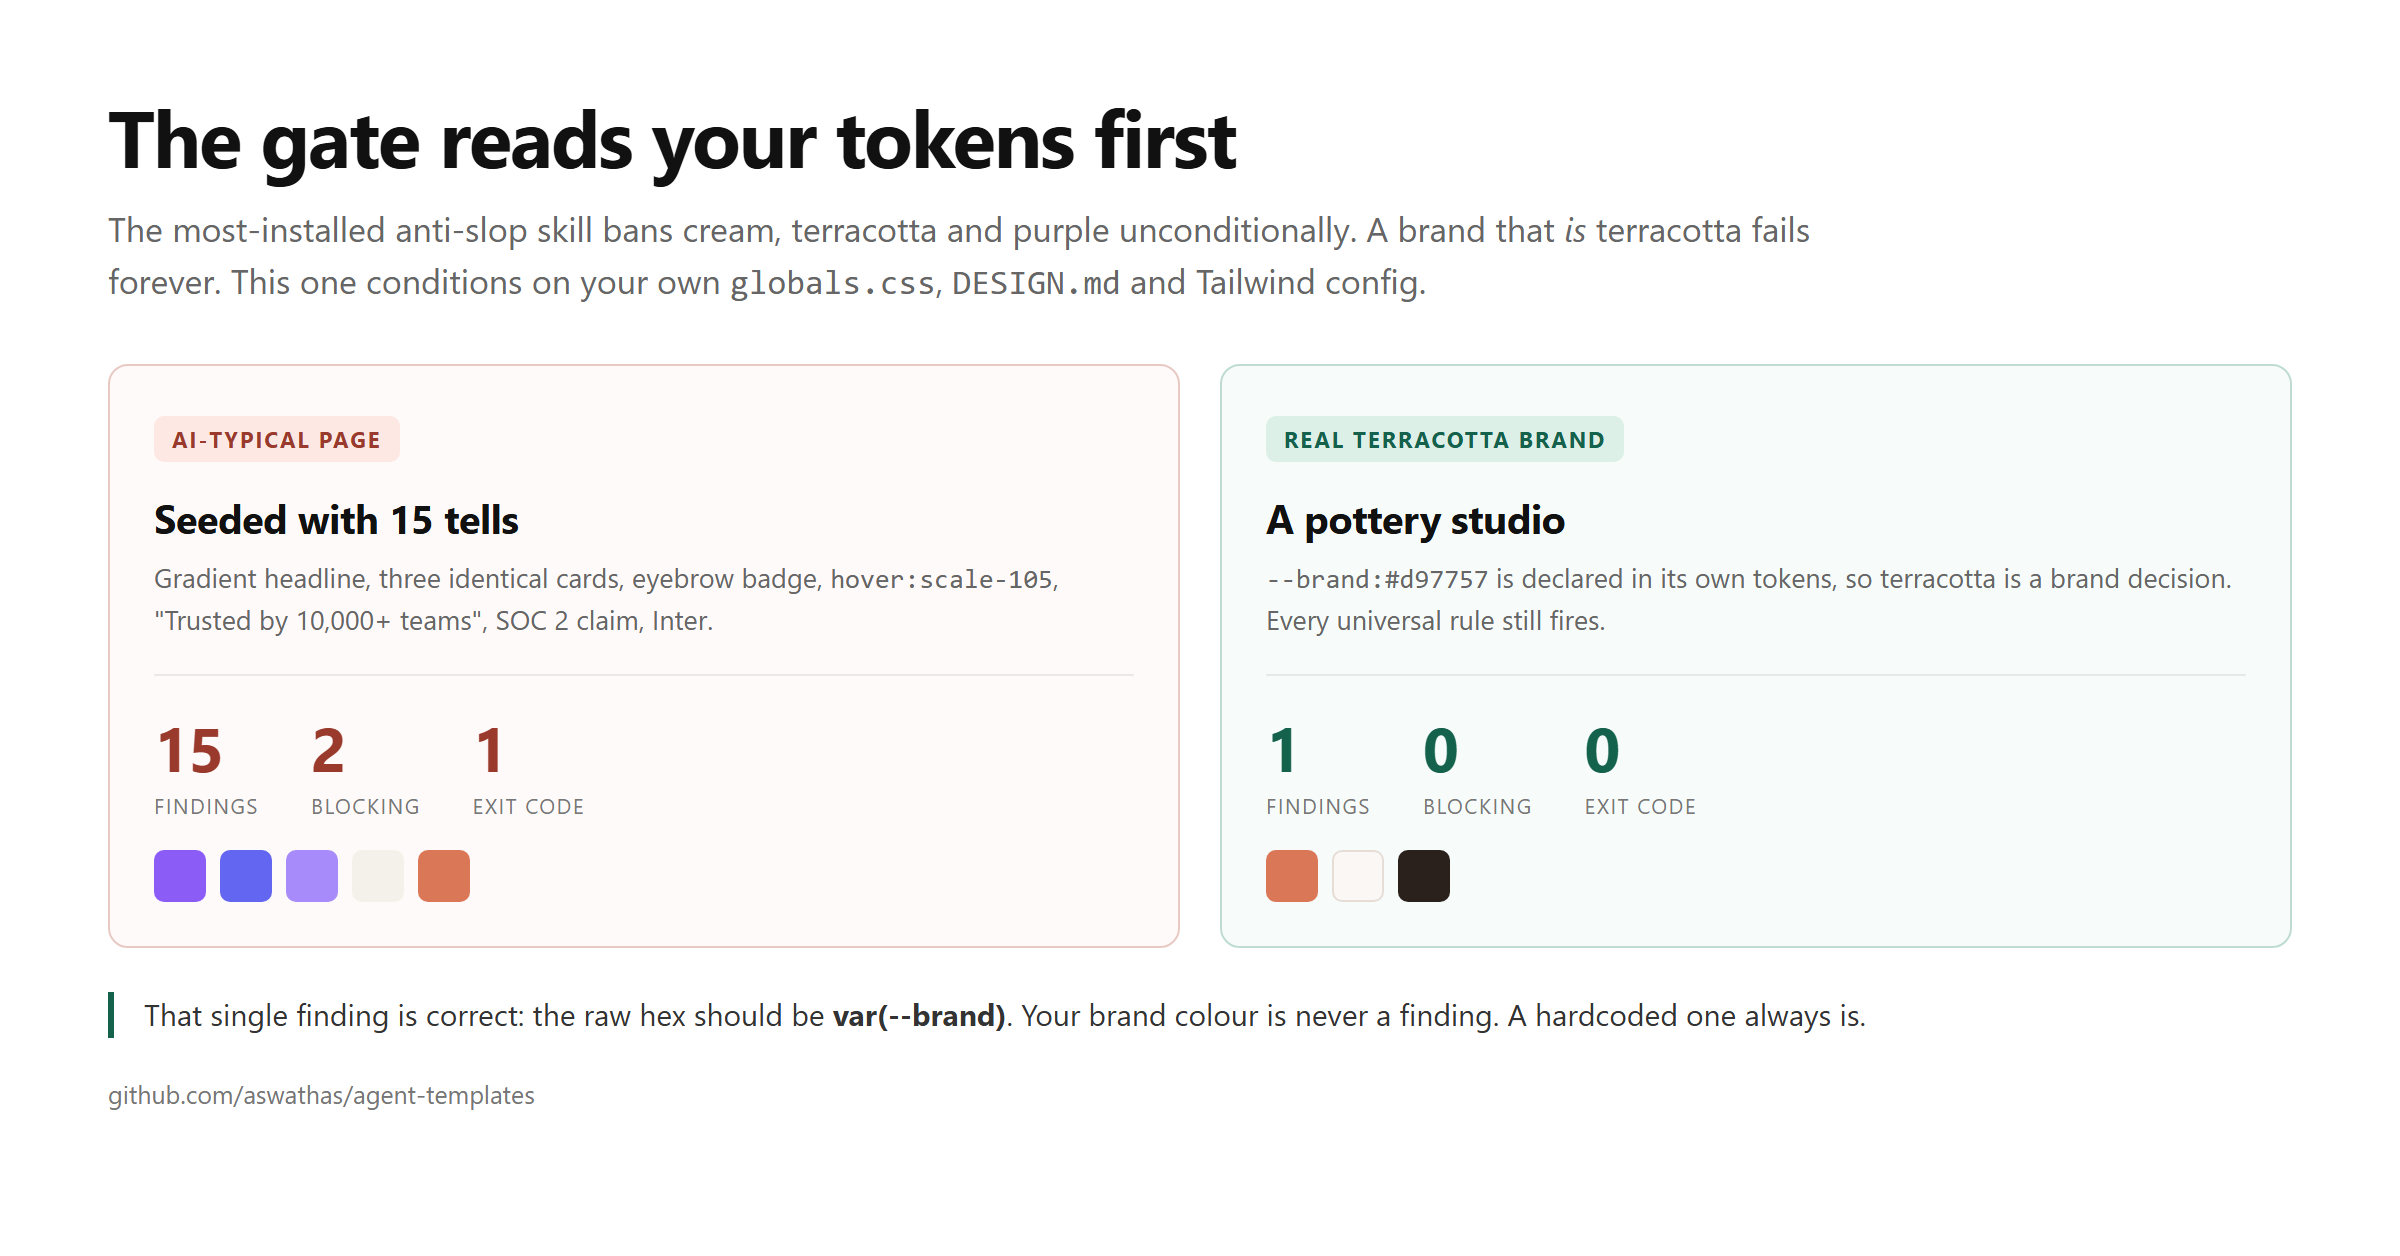
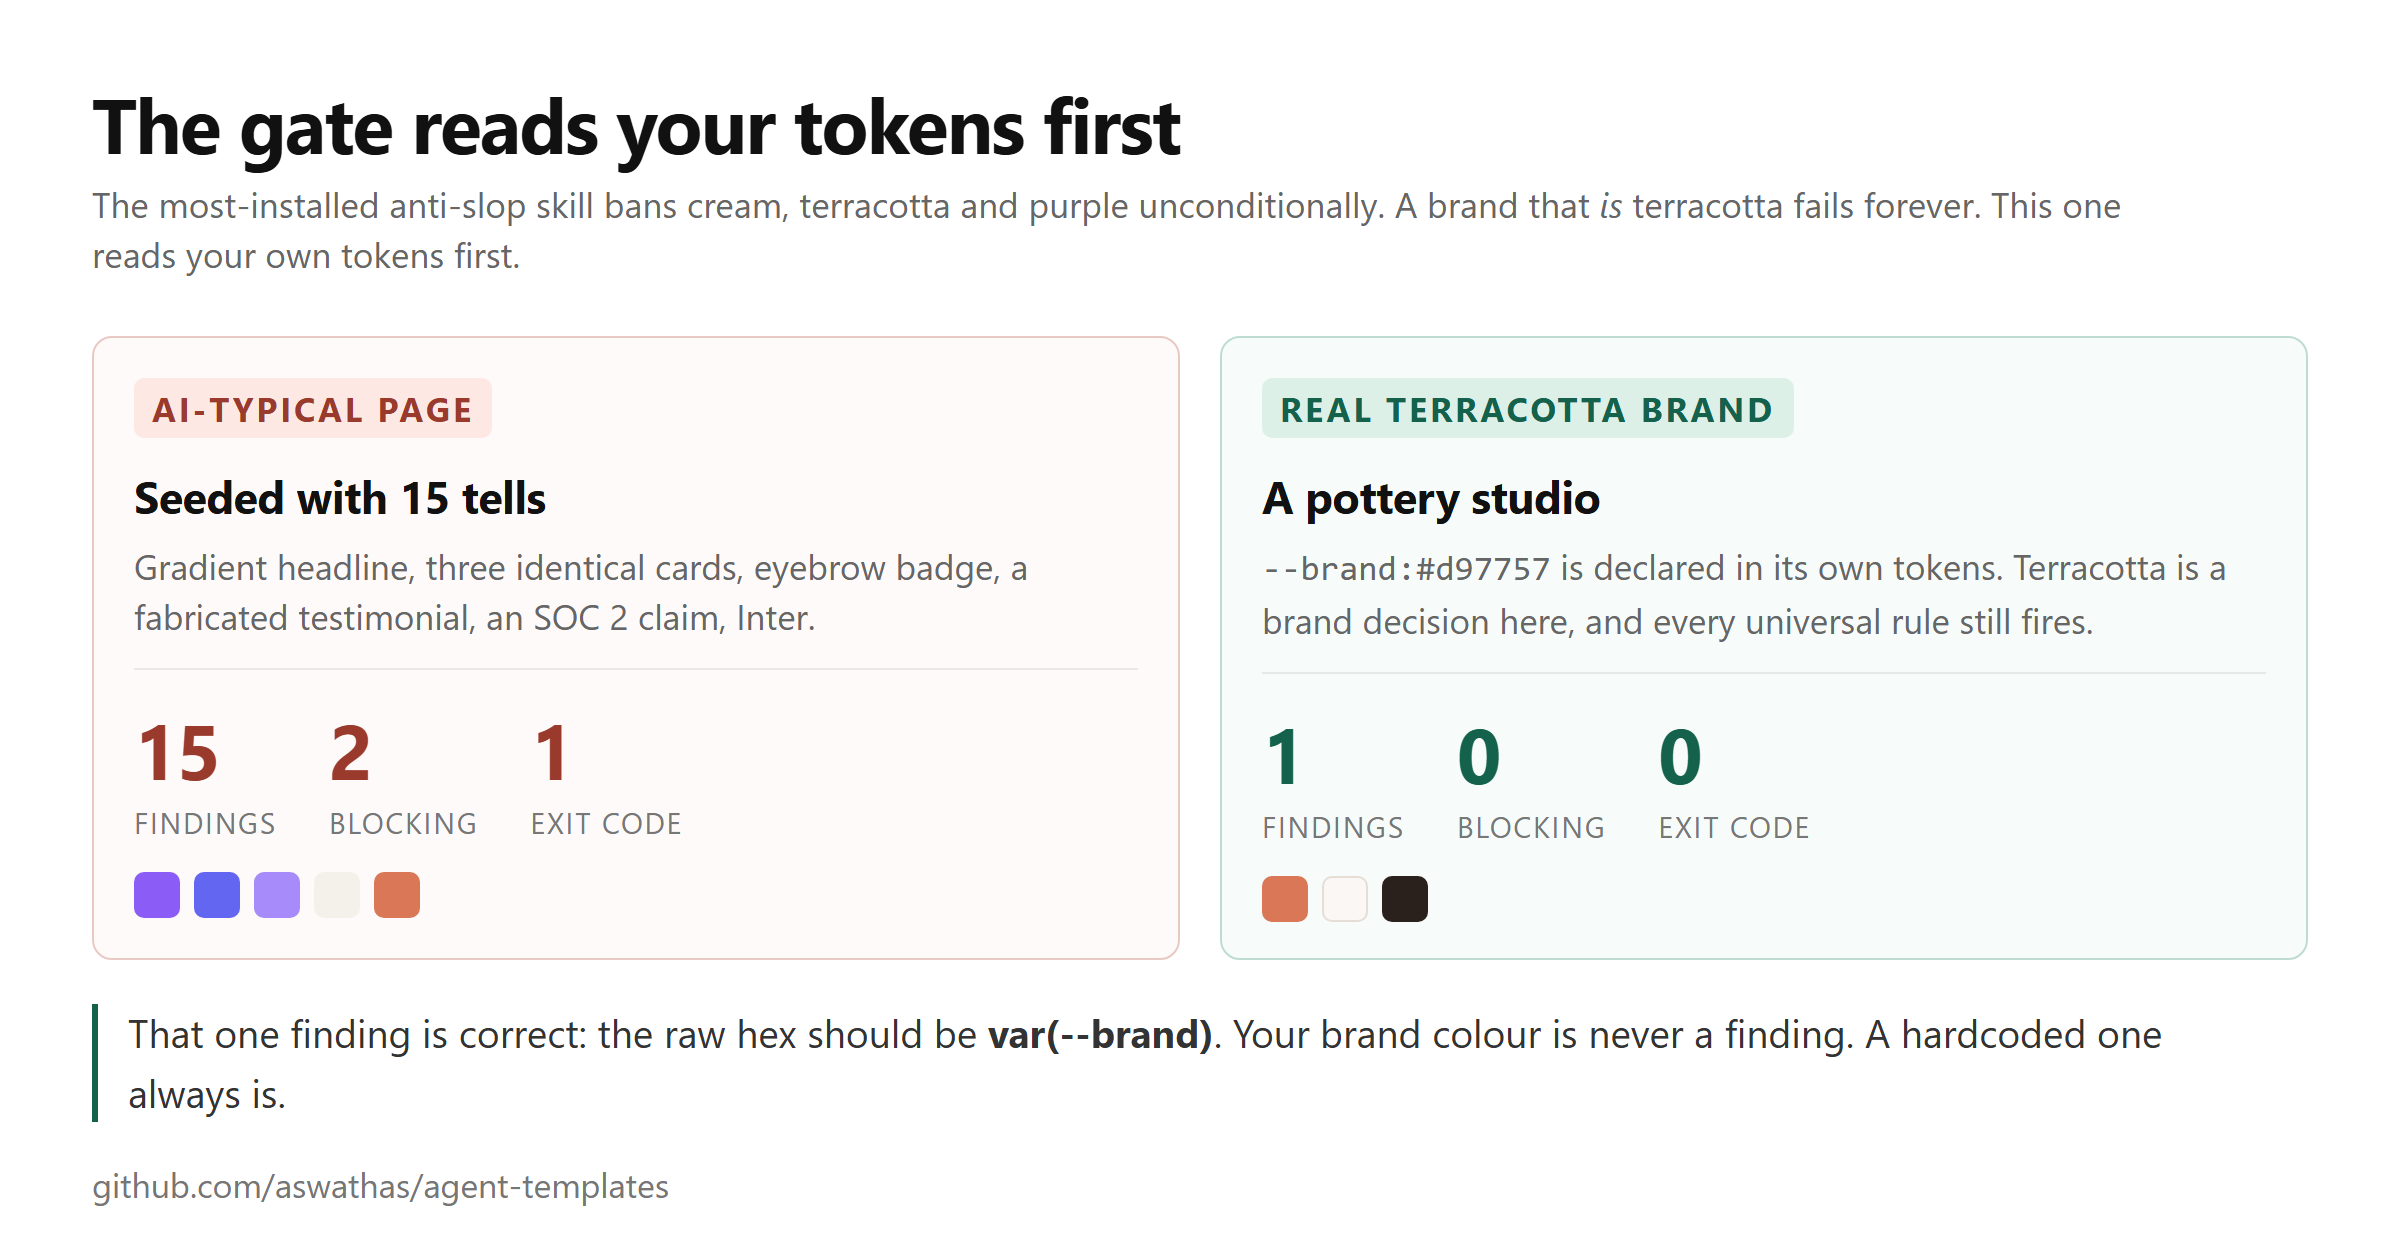
Fix unreadable post images at feed size, assert no overflow
The images were authored at 1200px CSS and rendered at 2x to 2400px PNGs.
LinkedIn shows a feed image near 600px, so 16px body text rendered at 4px.
Every image was unreadable as posted.

- Type floor raised to 11px, then the whole ramp scaled so the viewed size
  clears the bar rather than the CSS value
- Copy trimmed to fit rather than shrinking type back under the floor
- Added an overflow assertion to render.mjs that measures every element and
  exits 1. A screenshot of clipped content still renders, so measuring is the
  only way to catch it. All three images overflowed during authoring.

diff --git a/images/src/02-architecture.html b/images/src/02-architecture.html
@@ -3,31 +3,32 @@
 <style>
 *{margin:0;padding:0;box-sizing:border-box}
 body{width:1200px;height:628px;background:#fbfbfa;font-family:'Segoe UI',system-ui,sans-serif;color:#111}
-.pad{padding:40px 50px 0}
-h1{font-size:32px;font-weight:650;letter-spacing:-.022em}
-.lede{font-size:15px;color:#5c5c58;margin-top:8px;max-width:940px;line-height:1.5}
-.flow{display:flex;align-items:stretch;gap:0;margin-top:26px}
+.pad{padding:28px 40px 0}
+h1{font-size:36px;font-weight:650;letter-spacing:-.022em}
+.lede{font-size:18px;color:#5c5c58;margin-top:6px;max-width:1020px;line-height:1.42}
+.flow{display:flex;align-items:stretch;gap:0;margin-top:14px}
 .step{flex:1}
 .chip{background:#fff;border:1px solid #dddcd8;border-radius:9px;padding:15px 16px;height:100%}
-.chip .n{font-size:10px;font-weight:700;letter-spacing:.1em;text-transform:uppercase;color:#6e6e68}
-.chip .h{font-size:16.5px;font-weight:650;margin-top:7px;letter-spacing:-.012em}
-.chip .d{font-size:12.5px;color:#4f4f4a;margin-top:6px;line-height:1.42}
-.arrow{display:flex;align-items:center;padding:0 9px;color:#b4b4ae;font-size:19px}
-.split{margin-top:22px;background:#fff;border:1px solid #dddcd8;border-radius:11px;padding:17px 18px}
-.split .lab{font-size:10.5px;font-weight:700;letter-spacing:.09em;text-transform:uppercase;color:#6e6e68;margin-bottom:12px}
-.routes{display:grid;grid-template-columns:repeat(4,1fr);gap:9px}
-.route{border:1px solid #e6e5e1;border-radius:7px;padding:11px 12px;background:#fdfdfc}
-.route .rt{font-size:13.5px;font-weight:640;letter-spacing:-.01em}
-.route .rd{font-size:11.5px;color:#55554f;margin-top:4px;line-height:1.38}
+.chip .n{font-size:14.3px;font-weight:700;letter-spacing:.1em;text-transform:uppercase;color:#6e6e68}
+.chip .h{font-size:18.5px;font-weight:650;margin-top:7px;letter-spacing:-.012em}
+.chip .d{font-size:16.9px;color:#4f4f4a;margin-top:6px;line-height:1.42}
+.arrow{display:flex;align-items:center;padding:0 9px;color:#b4b4ae;font-size:24.7px}
+.split{margin-top:13px;background:#fff;border:1px solid #dddcd8;border-radius:11px;padding:17px 18px}
+.split .lab{font-size:14.3px;font-weight:700;letter-spacing:.09em;text-transform:uppercase;color:#6e6e68;margin-bottom:12px}
+.routes{display:grid;grid-template-columns:repeat(4,1fr);gap:8px}
+.also{font-size:16px;color:#55554f;margin-top:11px;padding-top:10px;border-top:1px solid #e6e5e1}
+.route{border:1px solid #e6e5e1;border-radius:6px;padding:7px 9px;background:#fdfdfc}
+.route .rt{font-size:15.1px;font-weight:640;letter-spacing:-.01em}
+.route .rd{font-size:16.9px;color:#55554f;margin-top:4px;line-height:1.38}
 .route.ext{border-style:dashed;background:#fafaf8}
-.ext-tag{font-size:9.5px;color:#6e6e68;text-transform:uppercase;letter-spacing:.07em;font-weight:600}
-.gate{margin-top:17px;display:grid;grid-template-columns:1fr 1fr;gap:11px}
+.ext-tag{font-size:14.3px;color:#6e6e68;text-transform:uppercase;letter-spacing:.07em;font-weight:600}
+.gate{margin-top:13px;display:grid;grid-template-columns:1fr 1fr;gap:11px}
 .g{border-radius:9px;padding:14px 16px}
 .g.a{background:#f0f4f2;border:1px solid #cfe0d9}
 .g.b{background:#fdf3f1;border:1px solid #edd4ce}
-.g .gh{font-size:14.5px;font-weight:650}
-.g .gd{font-size:12px;margin-top:5px;line-height:1.42;color:#55554f}
-.foot{margin-top:14px;font-size:11.5px;color:#767676}
+.g .gh{font-size:18.9px;font-weight:650}
+.g .gd{font-size:16.9px;margin-top:5px;line-height:1.42;color:#55554f}
+.foot{margin-top:11px;font-size:15px;color:#767676;padding-left:2px}
 </style></head>
 <body><div class="pad">
 <h1>Every surface routes to its own method</h1>
@@ -54,20 +55,18 @@ h1{font-size:32px;font-weight:650;letter-spacing:-.022em}
 <div class="split">
   <div class="lab">Routes</div>
   <div class="routes">
-    <div class="route"><div class="rt">Marketing</div><div class="rd">taste-skill. Art direction, 20 researched directions.</div></div>
-    <div class="route"><div class="rt">Product UI</div><div class="rd">Density, nine states, tables, forms, focus.</div></div>
-    <div class="route"><div class="rt">Mobile</div><div class="rd">Touch targets, safe areas, iOS ≠ Android.</div></div>
-    <div class="route"><div class="rt">Canvas</div><div class="rd">Pointer capture, keyboard per gesture, frame budget.</div></div>
-    <div class="route"><div class="rt">i18n / RTL</div><div class="rd">Logical properties, Intl, text expansion.</div></div>
-    <div class="route ext"><div class="rt">Charts</div><div class="rd">dataviz skill. Built in, not bundled.</div></div>
-    <div class="route ext"><div class="rt">Figma</div><div class="rd">Official MCP. Design as source of truth.</div></div>
-    <div class="route ext"><div class="rt">Design system</div><div class="rd">Style Dictionary or Terrazzo.</div></div>
+    <div class="route"><div class="rt">Marketing</div><div class="rd">taste-skill. Art direction.</div></div>
+    <div class="route"><div class="rt">Product UI</div><div class="rd">Density, nine states, tables.</div></div>
+    <div class="route"><div class="rt">Mobile</div><div class="rd">Touch targets, safe areas.</div></div>
+    <div class="route"><div class="rt">Canvas</div><div class="rd">Keyboard per gesture.</div></div>
   </div>
+  <div class="also">Plus i18n/RTL, charts (dataviz), Figma MCP, and a Style Dictionary pipeline.</div>
+</div>
 </div>
 
 <div class="gate">
-  <div class="g a"><div class="gh">Closed here</div><div class="gd">Brand-conditioned gate. Reads your tokens first, so your own colours are never findings.</div></div>
-  <div class="g b"><div class="gh">Needs a browser</div><div class="gd">Rendered geometry, contrast in situ, focus order. Static regex cannot see these.</div></div>
+  <div class="g a"><div class="gh">Closed here</div><div class="gd">Brand-conditioned gate — your own colours are never findings.</div></div>
+  <div class="g b"><div class="gh">Needs a browser</div><div class="gd">Rendered geometry, contrast in situ, focus order.</div></div>
 </div>
 
 <div class="foot">github.com/aswathas/agent-templates</div>

diff --git a/images/src/01-gate.html b/images/src/01-gate.html
@@ -3,38 +3,38 @@
 <style>
 *{margin:0;padding:0;box-sizing:border-box}
 body{width:1200px;height:628px;background:#fff;font-family:'Segoe UI',system-ui,sans-serif;color:#111}
-.pad{padding:46px 54px 0}
-h1{font-size:40px;font-weight:650;letter-spacing:-.025em;line-height:1.1}
-.sub{font-size:17px;color:#666;margin-top:12px;line-height:1.5;max-width:900px}
+.pad{padding:40px 46px 0}
+h1{font-size:38.6px;font-weight:650;letter-spacing:-.025em;line-height:1.1}
+.sub{font-size:17.6px;color:#666;margin-top:8px;line-height:1.4;max-width:1050px}
 .cols{display:grid;grid-template-columns:1fr 1fr;gap:20px;margin-top:28px}
-.card{border:1px solid #e3e3e1;border-radius:10px;padding:24px 22px 22px}
+.card{border:1px solid #e3e3e1;border-radius:10px;padding:20px 20px 18px}
 .card.bad{border-color:#e8c9c4;background:#fefaf9}
 .card.good{border-color:#bfdcd2;background:#f7fcfa}
-.tag{display:inline-flex;align-items:center;gap:7px;font-size:11px;font-weight:700;letter-spacing:.09em;text-transform:uppercase;padding:4px 9px;border-radius:5px}
+.tag{display:inline-flex;align-items:center;gap:7px;font-size:16.9px;font-weight:700;letter-spacing:.09em;text-transform:uppercase;padding:4px 9px;border-radius:5px}
 .bad .tag{background:#fde8e4;color:#9a3a2c}
 .good .tag{background:#dcf0e8;color:#14614c}
-.ttl{font-size:20px;font-weight:650;margin-top:14px;letter-spacing:-.015em}
-.sub2{font-size:13.5px;color:#666;margin-top:7px;line-height:1.45}
-.stats{display:flex;gap:26px;margin-top:18px;padding-top:15px;border-top:1px solid rgba(0,0,0,.07)}
-.st .n{font-size:31px;font-weight:700;letter-spacing:-.02em;font-variant-numeric:tabular-nums}
+.ttl{font-size:22.6px;font-weight:650;margin-top:14px;letter-spacing:-.015em}
+.sub2{font-size:17.5px;color:#666;margin-top:7px;line-height:1.45}
+.stats{display:flex;gap:26px;margin-top:14px;padding-top:13px;border-top:1px solid rgba(0,0,0,.07)}
+.st .n{font-size:38.6px;font-weight:700;letter-spacing:-.02em;font-variant-numeric:tabular-nums}
 .bad .st .n{color:#9a3a2c}
 .good .st .n{color:#14614c}
-.st .l{font-size:10.5px;color:#777;text-transform:uppercase;letter-spacing:.07em;margin-top:2px}
+.st .l{font-size:14.3px;color:#777;text-transform:uppercase;letter-spacing:.07em;margin-top:2px}
 .sw{display:flex;gap:7px;margin-top:15px}
-.sw i{width:26px;height:26px;border-radius:5px;display:block}
-.note{margin-top:22px;font-size:15px;color:#333;border-left:3px solid #14614c;padding-left:15px;line-height:1.5;max-width:1050px}
+.sw i{width:23px;height:23px;border-radius:5px;display:block}
+.note{margin-top:22px;font-size:19.5px;color:#333;border-left:3px solid #14614c;padding-left:15px;line-height:1.5;max-width:1050px}
 .note b{font-weight:650}
-.foot{margin-top:20px;font-size:12.5px;color:#767676}
+.foot{margin-top:20px;font-size:16.9px;color:#767676}
 </style></head>
 <body><div class="pad">
 <h1>The gate reads your tokens first</h1>
-<p class="sub">The most-installed anti-slop skill bans cream, terracotta and purple unconditionally. A brand that <em>is</em> terracotta fails forever. This one conditions on your own <code>globals.css</code>, <code>DESIGN.md</code> and Tailwind config.</p>
+<p class="sub">The most-installed anti-slop skill bans cream, terracotta and purple unconditionally. A brand that <em>is</em> terracotta fails forever. This one reads your own tokens first.</p>
 
 <div class="cols">
   <div class="card bad">
     <span class="tag">AI-typical page</span>
     <div class="ttl">Seeded with 15 tells</div>
-    <div class="sub2">Gradient headline, three identical cards, eyebrow badge, <code>hover:scale-105</code>, "Trusted by 10,000+ teams", SOC 2 claim, Inter.</div>
+    <div class="sub2">Gradient headline, three identical cards, eyebrow badge, a fabricated testimonial, an SOC 2 claim, Inter.</div>
     <div class="stats">
       <div class="st"><div class="n">15</div><div class="l">findings</div></div>
       <div class="st"><div class="n">2</div><div class="l">blocking</div></div>
@@ -49,7 +49,7 @@ h1{font-size:40px;font-weight:650;letter-spacing:-.025em;line-height:1.1}
   <div class="card good">
     <span class="tag">Real terracotta brand</span>
     <div class="ttl">A pottery studio</div>
-    <div class="sub2"><code>--brand:#d97757</code> is declared in its own tokens, so terracotta is a brand decision. Every universal rule still fires.</div>
+    <div class="sub2"><code>--brand:#d97757</code> is declared in its own tokens. Terracotta is a brand decision here, and every universal rule still fires.</div>
     <div class="stats">
       <div class="st"><div class="n">1</div><div class="l">findings</div></div>
       <div class="st"><div class="n">0</div><div class="l">blocking</div></div>
@@ -62,6 +62,6 @@ h1{font-size:40px;font-weight:650;letter-spacing:-.025em;line-height:1.1}
   </div>
 </div>
 
-<div class="note">That single finding is correct: the raw hex should be <b>var(--brand)</b>. Your brand colour is never a finding. A hardcoded one always is.</div>
+<div class="note">That one finding is correct: the raw hex should be <b>var(--brand)</b>. Your brand colour is never a finding. A hardcoded one always is.</div>
 <div class="foot">github.com/aswathas/agent-templates</div>
 </div></body></html>

diff --git a/images/src/03-eval.html b/images/src/03-eval.html
@@ -3,30 +3,30 @@
 <style>
 *{margin:0;padding:0;box-sizing:border-box}
 body{width:1200px;height:628px;background:#fff;font-family:'Segoe UI',system-ui,sans-serif;color:#111}
-.pad{padding:44px 52px 0}
-h1{font-size:34px;font-weight:650;letter-spacing:-.024em;line-height:1.14}
-.lede{font-size:16px;color:#5c5c58;margin-top:10px;line-height:1.5;max-width:1000px}
-.board{display:grid;grid-template-columns:1fr 1fr;gap:20px;margin-top:24px}
-.pane{border:1px solid #e3e3e0;border-radius:10px;padding:22px 20px}
+.pad{padding:38px 44px 0}
+h1{font-size:38.6px;font-weight:650;letter-spacing:-.024em;line-height:1.14}
+.lede{font-size:18.5px;color:#5c5c58;margin-top:10px;line-height:1.5;max-width:1000px}
+.board{display:grid;grid-template-columns:1fr 1fr;gap:18px;margin-top:18px}
+.pane{border:1px solid #e3e3e0;border-radius:10px;padding:18px 18px}
 .pane.a{background:#f8fbfa;border-color:#cfe0d9}
 .pane.b{background:#fcfaf9;border-color:#e5e2df}
 .ph{display:flex;align-items:baseline;justify-content:space-between}
-.pl{font-size:10.5px;font-weight:700;letter-spacing:.09em;text-transform:uppercase;color:#6e6e68}
-.score{font-size:44px;font-weight:700;letter-spacing:-.035em;font-variant-numeric:tabular-nums;line-height:1}
+.pl{font-size:14.3px;font-weight:700;letter-spacing:.09em;text-transform:uppercase;color:#6e6e68}
+.score{font-size:38.6px;font-weight:700;letter-spacing:-.035em;font-variant-numeric:tabular-nums;line-height:1}
 .a .score{color:#14614c}
 .b .score{color:#7a6a63}
-.of{font-size:12px;color:#6e6e68;margin-top:2px}
-.bars{margin-top:14px;display:flex;flex-direction:column;gap:7px}
-.bar{display:flex;align-items:center;gap:9px;font-size:12px}
+.of{font-size:16.9px;color:#6e6e68;margin-top:2px}
+.bars{margin-top:12px;display:flex;flex-direction:column;gap:6px}
+.bar{display:flex;align-items:center;gap:9px;font-size:16.9px}
 .bar .cl{width:112px;color:#55554f;font-variant-numeric:tabular-nums}
 .bar .tr{flex:1;height:9px;background:#e7e5e1;border-radius:5px;overflow:hidden;min-width:0}
 .bar .fl{height:100%;border-radius:5px;display:block}
 .a .fl{background:#2f8a72}
 .b .fl{background:#b09a90}
-.vs{margin-top:20px;padding:15px 19px;background:#f7f7f5;border-radius:9px;border:1px solid #e6e5e1}
-.vs .q{font-size:15px;line-height:1.5;color:#2f2f2b}
-.quote{font-size:12.5px;color:#5c5c58;margin-top:5px}
-.foot{margin-top:22px;font-size:12px;color:#767676}
+.vs{margin-top:15px;padding:13px 16px;background:#f7f7f5;border-radius:9px;border:1px solid #e6e5e1}
+.vs .q{font-size:19.5px;line-height:1.5;color:#2f2f2b}
+.quote{font-size:15.1px;color:#5c5c58;margin-top:5px}
+.foot{margin-top:22px;font-size:16.9px;color:#767676}
 </style></head>
 <body><div class="pad">
 <h1>Blinded A/B, one prompt, judge never saw which was which</h1>

diff --git a/images/README.md b/images/README.md
@@ -12,10 +12,18 @@ Three 1200×628 PNGs at 2× device scale (2400×1256), sized for LinkedIn's link
 
 ```bash
 npm install          # playwright, dev only
-node images/render.mjs
+npm run render
 ```
 
 Sources are plain HTML in `images/src/`. Edit the HTML, re-run, done. No design tool, no image API, no keys.
+
+**The renderer asserts no overflow and exits 1 if any element runs past the 628px frame.** A screenshot of clipped content still renders, so measuring is the only way to catch it. Every one of these images overflowed at least once during authoring and looked fine in the PNG until it was measured.
+
+## Legibility at feed size
+
+LinkedIn shows a feed image near 600px wide. These are 1200px CSS at 2x DPR, so a reader sees them at roughly half scale.
+
+That makes the type floor different from a web page. The source type is sized so the *viewed* size clears the bar, not so the CSS value does. Anything under 11px in the source becomes sub-pixel in the feed. The `impeccable` hook caught six of those during authoring; the same class of failure that the eval-1 candidate found in its own overflow detector — a check that looks right and catches nothing.
 
 ## Why HTML and not an image model
 
